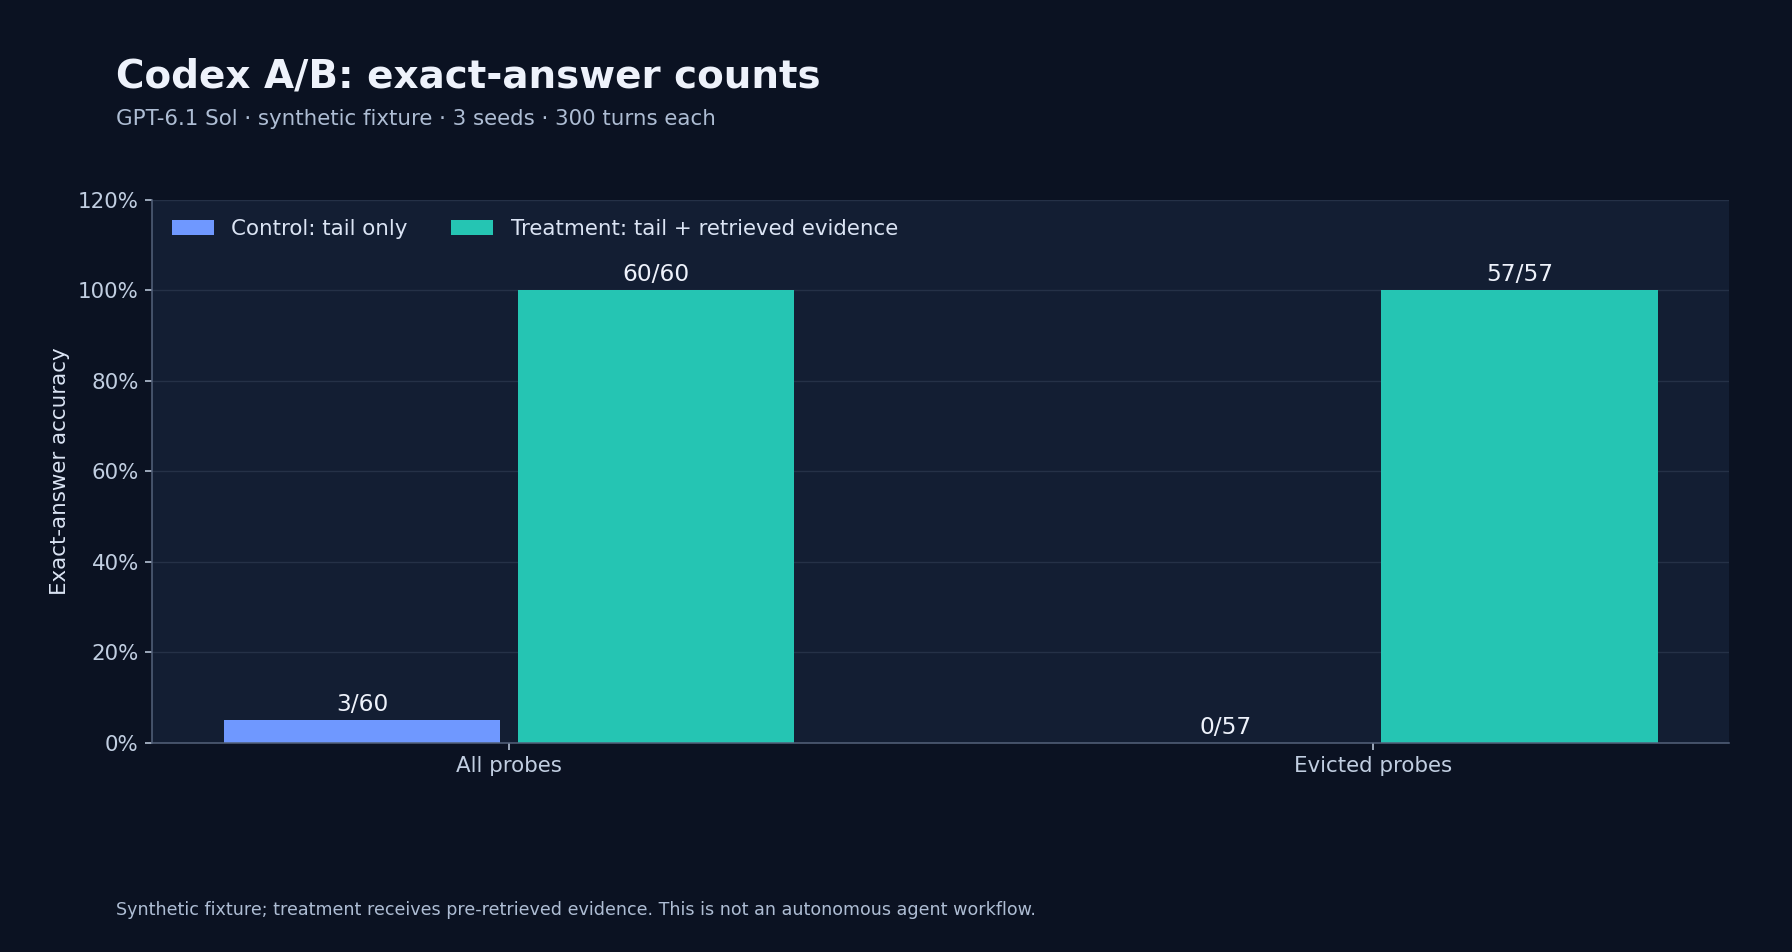
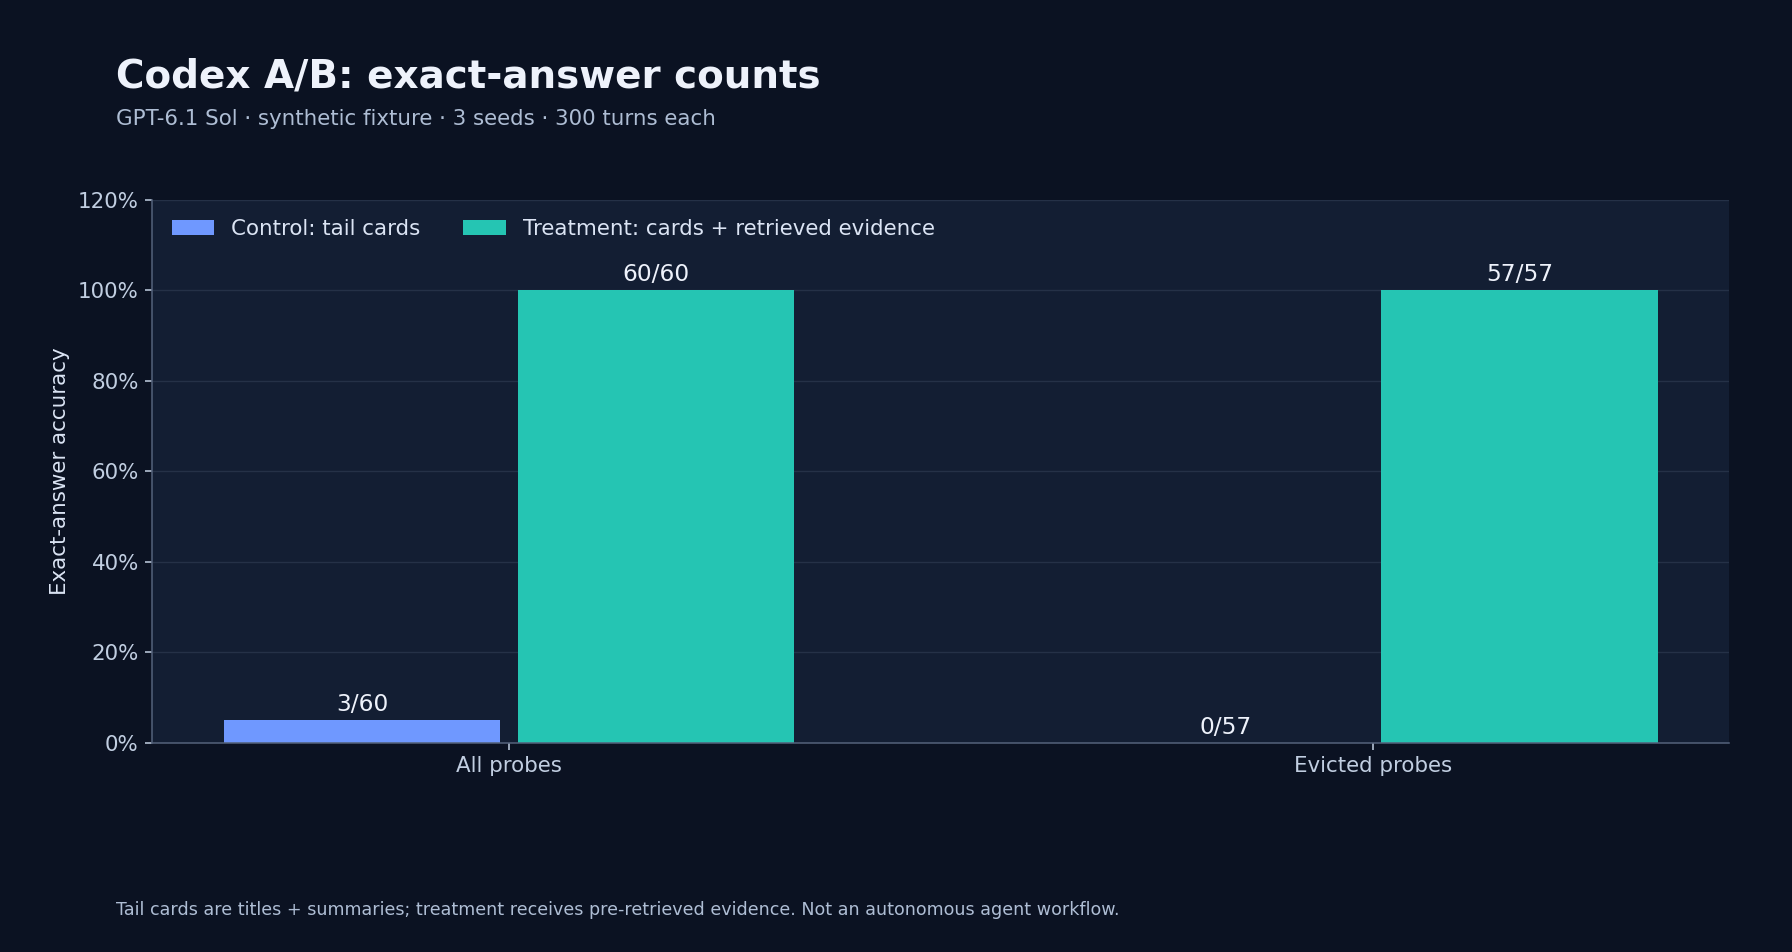
docs: clarify tail-card baseline in live A/B

Changed region(s): [[0.0625, 0.9443, 0.625, 0.9748], [0.25, 0.2132, 0.5312, 0.2437]]

diff --git a/scripts/plot-benchmarks.py b/scripts/plot-benchmarks.py
@@ -188,7 +188,7 @@ ax.set_xticks([0, 1], ["All probes", "Evicted probes"])
 ax.set_ylabel("Exact-answer accuracy")
 ax.set_ylim(0, 120)
 ax.yaxis.set_major_formatter(PercentFormatter(xmax=100))
-ax.legend(["Control: tail only", "Treatment: tail + retrieved evidence"],
+ax.legend(["Control: tail cards", "Treatment: cards + retrieved evidence"],
           loc="upper left", ncol=2, frameon=False, labelcolor="#dbe4f4")
-footnote(fig, "Synthetic fixture; treatment receives pre-retrieved evidence. This is not an autonomous agent workflow.")
+footnote(fig, "Tail cards are titles + summaries; treatment receives pre-retrieved evidence. Not an autonomous agent workflow.")
 save(fig, "codex-ab.png")

diff --git a/docs/live-testing.md b/docs/live-testing.md
@@ -87,8 +87,10 @@ Limits kept explicit: the boost requires the cold abstract to cover **every** me
 | Sol, v0.8.1 + tail-order fix | **3/60** | **60/60** | **0/57 → 57/57** | Actual plans and both prompts saved; turns 280–299 in order |
 
 The new Sol run uses three synthetic 300-turn histories and 20 probes per
-seed. The fixture searches and opens records before inserting evidence into the
-treatment prompt; it does not test an autonomous model choosing memory tools.
+seed. Both conditions see the titles and summaries of the 20 tail records,
+not their full conversation bodies. The fixture searches and opens records
+before inserting evidence into the treatment prompt; it does not test an
+autonomous model choosing memory tools.
 All six calls exited zero. CLI stderr reported 80,452 total tokens across the
 calls, but structured provider usage and billing cost are unknown; initialization
 and analytics-send warnings occurred. Diagnostic tails are redacted from the
@@ -178,8 +180,8 @@ The bridge saves tail IDs and probe `inTail`/`evicted` flags. Use `--keep` to re
 
 The intended comparison for each synthetic long-horizon question uses two conditions on the same model. The fixed harness selects the tail by fixture insertion order and records its membership:
 
-- **control** — only the most recent tail is in context; older facts are evicted;
-- **treatment** — tail + Memex `memory_search`/`memory_open` evidence for that question.
+- **control** — titles and summaries of the retained tail records are in context; older records are evicted;
+- **treatment** — the same tail cards plus fixture-generated Memex search/open evidence for that question.
 
 Answers are graded by exact `FACT-###` token. The output reports per-probe `correct`, latency, provider usage, and aggregate `accuracy.control` / `accuracy.treatment`.
 

diff --git a/README.md b/README.md
@@ -169,7 +169,7 @@ HTTP API: `GET /api/memory.index|record|search|metrics`, `POST /api/memory.statu
 |---|---|
 | Private archive re-check (40 curated questions; v0.5.1) | Reported hit@1 **68%** / hit@3 90% / hit@5 **93%**, cold recall 94%, p50 **1.5 ms**; this private archive cannot be independently reproduced from the public fixture |
 | Synthetic recall suite (v0.8.1 + tail fix) | 80/80 target-record hits at rank 1 |
-| Codex / GPT-6.1 Sol A/B (v0.8.1 + tail fix; 3 synthetic histories) | exact answers: control 3/60, treatment with retrieved evidence 60/60; evicted subset 0/57 → 57/57. [Method and limits](docs/live-testing.md#f-codex-cli--gpt-family-historical-results-and-fixed-sol-rerun) |
+| Codex / GPT-6.1 Sol A/B (v0.8.1 + tail fix; 3 synthetic histories) | exact answers: control with tail titles/summaries 3/60, treatment with retrieved evidence 60/60; evicted subset 0/57 → 57/57. [Method and limits](docs/live-testing.md#f-codex-cli--gpt-family-historical-results-and-fixed-sol-rerun) |
 | 10k records / 100M assigned tokens (v0.8.1 + tail fix, synthetic, quiet-start gate) | write 3.5 s; cold spill 5,000 records/50M tokens in 2.42 s; cold GC 2,500 records/25M tokens in 0.58 s |
 | SQLite index (synthetic v0.8.1 + tail fix 100M-token pool) | 10.5 MiB after writing, 28.0 MiB after cold spill; x-only bodies do not measure identifier-bearing body index overhead |
 

diff --git a/docs/benchmark.md b/docs/benchmark.md
@@ -152,15 +152,16 @@ for its historical context.
 ![Codex A/B exact-answer counts for all probes and evicted probes](assets/benchmarks/codex-ab.png)
 
 A separate live run used `gpt-6.1-sol` through Codex CLI, with three synthetic
-300-turn histories and 20 probes each. The control received the recent tail;
-the treatment received the same tail plus evidence selected and opened by the
+300-turn histories and 20 probes each. The control received the titles and
+summaries of the 20 recent tail records, not their full conversation bodies;
+the treatment received the same cards plus evidence selected and opened by the
 fixture before the model call. This tests model answers given retrieval
 evidence, not whether a model autonomously chooses or executes memory tools.
 
 | Condition | All probes | 57 evicted probes |
 |---|---:|---:|
-| Control: tail only | 3/60 (5%) | 0/57 (0%) |
-| Treatment: tail + retrieved evidence | 60/60 (100%) | 57/57 (100%) |
+| Control: tail titles and summaries | 3/60 (5%) | 0/57 (0%) |
+| Treatment: tail cards + retrieved evidence | 60/60 (100%) | 57/57 (100%) |
 
 All six Codex calls exited zero. The [published result](assets/benchmarks/live-ab-codex-sol-tail-fixed.json)
 retains the answer strings, scores, call statuses and tail IDs. The
